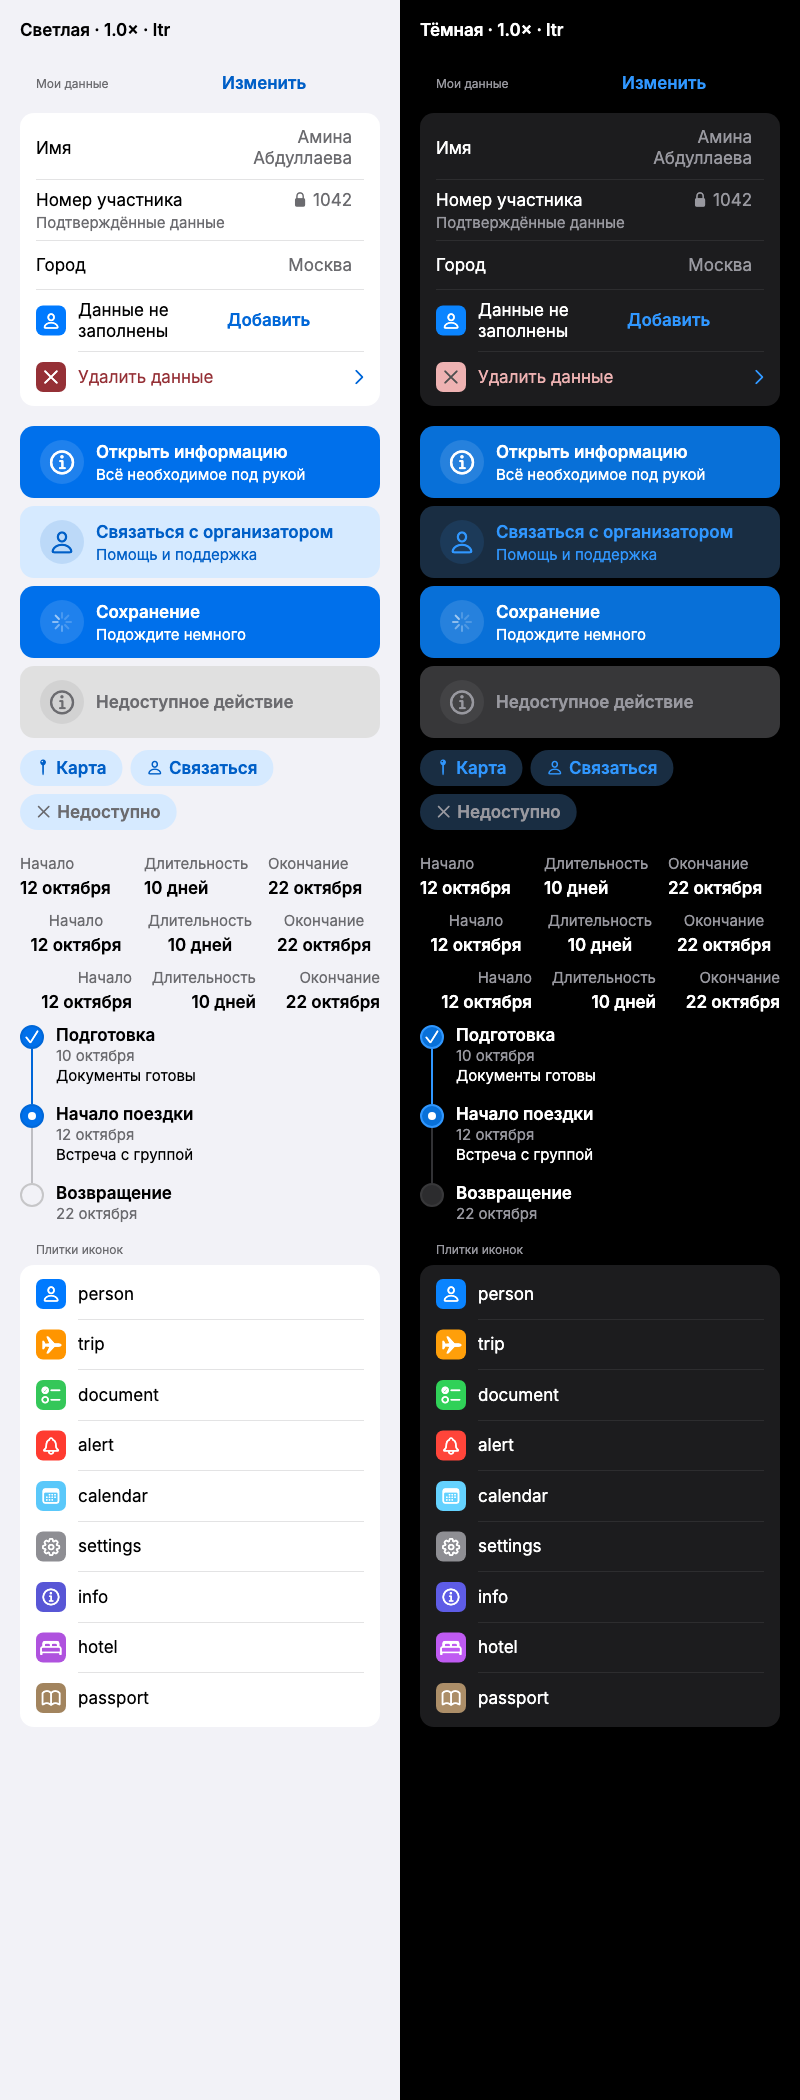
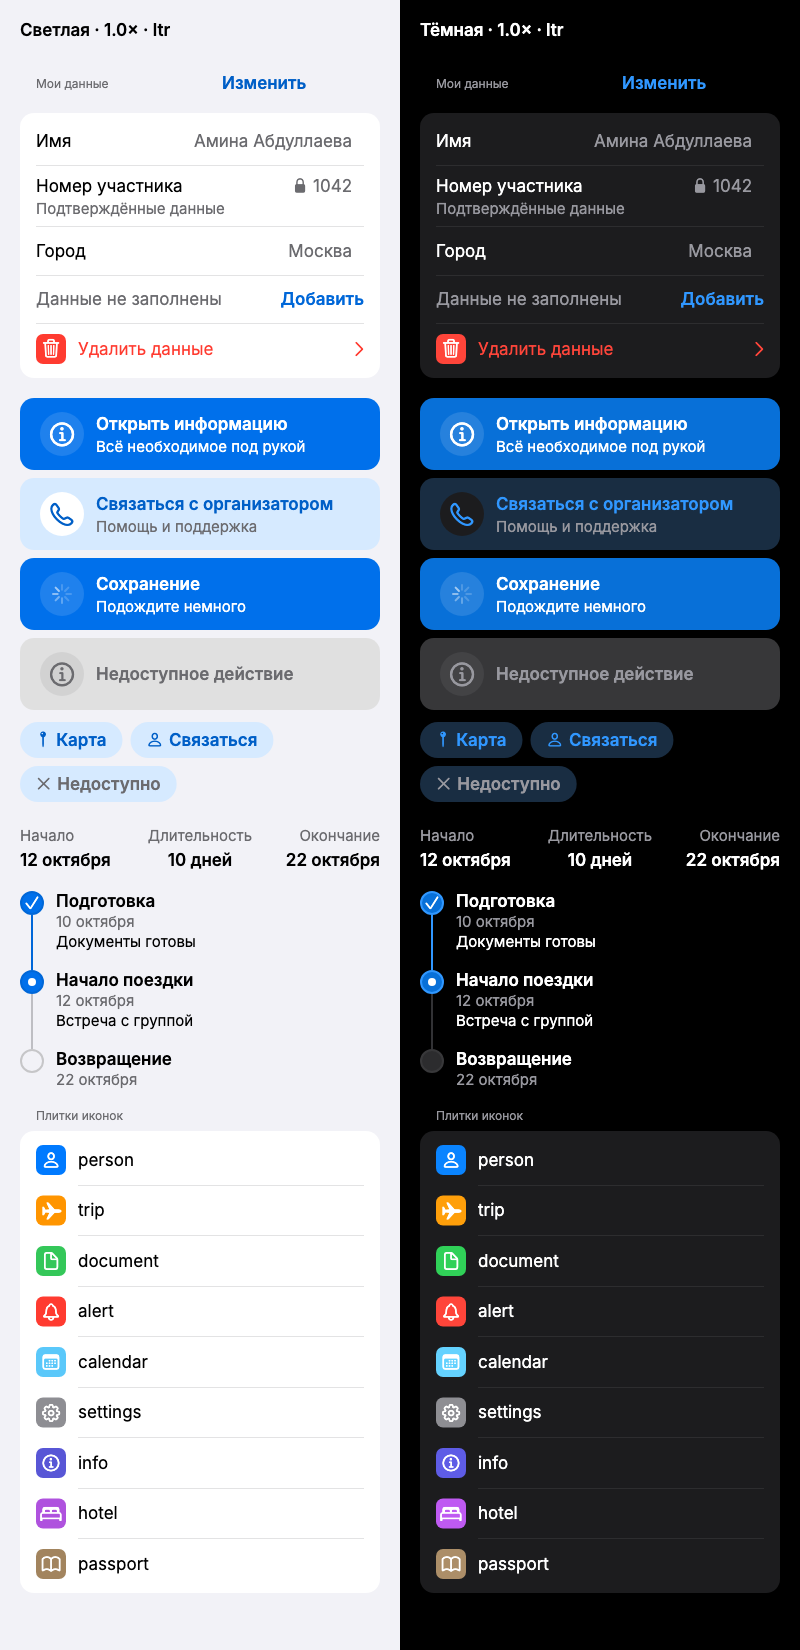
fix: align profile actions and match reference colors

diff --git a/packages/academy_ui/lib/src/widgets/table/academy_row.dart b/packages/academy_ui/lib/src/widgets/table/academy_row.dart
@@ -73,11 +73,18 @@ class AcademyRow extends StatelessWidget {
   @override
   Widget build(BuildContext context) {
     final theme = AcademyTheme.of(context);
+    final toneColor = tone == AcademyTone.error
+        ? AcademyRowIcons.alert.colorOf(context)
+        : tone == null
+        ? null
+        : theme.colorScheme.toneForeground(tone!);
     final tileColor = tone != null
-        ? theme.colorScheme.toneForeground(tone!)
+        ? toneColor
         : iconBackgroundColor ?? iconColorRole?.colorOf(context);
     final titleStyle = theme.textTheme.bodyLarge.copyWith(
-      color: tone == null ? null : theme.colorScheme.toneForeground(tone!),
+      color:
+          toneColor ??
+          (actionLabel != null ? theme.colorScheme.onSurfaceVariant : null),
     );
     final content = Padding(
       padding: EdgeInsetsDirectional.fromSTEB(
@@ -109,7 +116,7 @@ class AcademyRow extends StatelessWidget {
                 child: AcademySfIcon(
                   icon!,
                   size: 17,
-                  color: tone == null
+                  color: tone == null || tone == AcademyTone.error
                       ? theme.colorScheme.iconOnColoredSurface
                       : AcademyContrast.foreground(
                           theme.colorScheme.iconOnColoredSurface,
@@ -143,29 +150,18 @@ class AcademyRow extends StatelessWidget {
                                   color: theme.colorScheme.accentForeground,
                                 ),
                               );
-                              if (MediaQuery.textScalerOf(context).scale(1) >=
-                                      AcademyTokens.adaptiveTextScale ||
-                                  constraints.maxWidth <
-                                      AcademyTokens.metadataHorizontalWidth) {
-                                return Column(
-                                  crossAxisAlignment:
-                                      CrossAxisAlignment.stretch,
-                                  children: [
-                                    titleText,
-                                    const SizedBox(
-                                      height: AcademyTokens.labelGap,
-                                    ),
-                                    actionText,
-                                  ],
-                                );
-                              }
                               return Row(
                                 children: [
                                   Expanded(child: titleText),
                                   const SizedBox(
                                     width: AcademyTokens.inlineGap,
                                   ),
-                                  Flexible(child: actionText),
+                                  ConstrainedBox(
+                                    constraints: BoxConstraints(
+                                      maxWidth: constraints.maxWidth * .6,
+                                    ),
+                                    child: actionText,
+                                  ),
                                 ],
                               );
                             },
@@ -204,7 +200,7 @@ class AcademyRow extends StatelessWidget {
             const SizedBox(width: AcademyTokens.inlineGap),
             trailing!,
           ] else if (onPressed != null && actionLabel == null)
-            const AcademySfIcon(AcademySymbols.forward, size: 16),
+            AcademySfIcon(AcademySymbols.forward, size: 16, color: toneColor),
         ],
       ),
     );

diff --git a/apps/academy_ui_catalog/lib/profile_components_catalog.dart b/apps/academy_ui_catalog/lib/profile_components_catalog.dart
@@ -81,12 +81,10 @@ class ProfileComponentExamples extends StatelessWidget {
               title: 'Данные не заполнены',
               action: 'Добавить',
               onPressed: action,
-              icon: AcademySymbols.person,
-              iconColorRole: AcademyRowIcons.person,
             ),
             AcademyRow(
               title: 'Удалить данные',
-              icon: AcademySymbols.close,
+              icon: AcademySymbols.trash,
               tone: AcademyTone.error,
               onPressed: action,
             ),
@@ -103,7 +101,7 @@ class ProfileComponentExamples extends StatelessWidget {
         AcademyActionButton(
           title: 'Связаться с организатором',
           subtitle: 'Помощь и поддержка',
-          icon: AcademySymbols.person,
+          icon: AcademySymbols.phone,
           style: AcademyButtonStyle.tinted,
           onPressed: action,
         ),
@@ -140,18 +138,26 @@ class ProfileComponentExamples extends StatelessWidget {
           ],
         ),
         const SizedBox(height: AcademyTokens.gutter),
-        for (final alignment in AcademyStatAlignment.values)
-          Padding(
-            padding: const EdgeInsets.only(bottom: AcademyTokens.inlineGap),
-            child: AcademyStatGroup(
-              alignment: alignment,
-              stats: const [
-                AcademyStat(label: 'Начало', value: '12 октября'),
-                AcademyStat(label: 'Длительность', value: '10 дней'),
-                AcademyStat(label: 'Окончание', value: '22 октября'),
-              ],
+        AcademyStatGroup(
+          stats: const [
+            AcademyStat(
+              label: 'Начало',
+              value: '12 октября',
+              alignment: AcademyStatAlignment.start,
             ),
-          ),
+            AcademyStat(
+              label: 'Длительность',
+              value: '10 дней',
+              alignment: AcademyStatAlignment.center,
+            ),
+            AcademyStat(
+              label: 'Окончание',
+              value: '22 октября',
+              alignment: AcademyStatAlignment.end,
+            ),
+          ],
+        ),
+        const SizedBox(height: AcademyTokens.gutter),
         const AcademyTimeline(
           items: [
             AcademyTimelineItem(
@@ -180,7 +186,7 @@ class ProfileComponentExamples extends StatelessWidget {
                 icon: switch (role) {
                   AcademyRowIcons.person => AcademySymbols.person,
                   AcademyRowIcons.trip => AcademySymbols.airplane,
-                  AcademyRowIcons.document => AcademySymbols.checklist,
+                  AcademyRowIcons.document => AcademySymbols.document,
                   AcademyRowIcons.alert => AcademySymbols.bell,
                   AcademyRowIcons.calendar => AcademySymbols.calendar,
                   AcademyRowIcons.settings => AcademySymbols.gear,

diff --git a/packages/academy_ui/lib/src/widgets/stat/academy_stat_group.dart b/packages/academy_ui/lib/src/widgets/stat/academy_stat_group.dart
@@ -4,8 +4,9 @@ import '../../theme/academy_theme.dart';
 
 @immutable
 class AcademyStat {
-  const AcademyStat({required this.label, required this.value});
+  const AcademyStat({required this.label, required this.value, this.alignment});
   final String label, value;
+  final AcademyStatAlignment? alignment;
 }
 
 enum AcademyStatAlignment { start, center, end }
@@ -23,12 +24,13 @@ class AcademyStatGroup extends StatelessWidget {
   @override
   Widget build(BuildContext context) {
     final theme = AcademyTheme.of(context);
-    final textAlign = switch (alignment) {
-      AcademyStatAlignment.start => TextAlign.start,
-      AcademyStatAlignment.center => TextAlign.center,
-      AcademyStatAlignment.end => TextAlign.end,
-    };
-    Widget cell(AcademyStat stat) => Semantics(
+    TextAlign textAlign(AcademyStat stat) =>
+        switch (stat.alignment ?? alignment) {
+          AcademyStatAlignment.start => TextAlign.start,
+          AcademyStatAlignment.center => TextAlign.center,
+          AcademyStatAlignment.end => TextAlign.end,
+        };
+    Widget cell(AcademyStat stat, {bool vertical = false}) => Semantics(
       container: true,
       excludeSemantics: true,
       label: stat.label,
@@ -39,7 +41,7 @@ class AcademyStatGroup extends StatelessWidget {
         children: [
           Text(
             stat.label,
-            textAlign: textAlign,
+            textAlign: vertical ? TextAlign.start : textAlign(stat),
             style: theme.textTheme.bodyMedium.copyWith(
               color: theme.colorScheme.onSurfaceVariant,
             ),
@@ -47,7 +49,7 @@ class AcademyStatGroup extends StatelessWidget {
           const SizedBox(height: AcademyTokens.labelGap),
           Text(
             stat.value,
-            textAlign: textAlign,
+            textAlign: vertical ? TextAlign.start : textAlign(stat),
             style: theme.textTheme.labelLarge,
           ),
         ],
@@ -65,7 +67,7 @@ class AcademyStatGroup extends StatelessWidget {
             children: [
               for (var i = 0; i < stats.length; i++) ...[
                 if (i > 0) const SizedBox(height: AcademyTokens.inlineGap),
-                cell(stats[i]),
+                cell(stats[i], vertical: true),
               ],
             ],
           );

diff --git a/packages/academy_ui/test/profile_components_test.dart b/packages/academy_ui/test/profile_components_test.dart
@@ -40,7 +40,9 @@ List<SemanticsNode> nodes(WidgetTester tester) {
     });
   }
 
-  visit(tester.binding.renderViews.single.owner!.semanticsOwner!.rootSemanticsNode!);
+  visit(
+    tester.binding.renderViews.single.owner!.semanticsOwner!.rootSemanticsNode!,
+  );
   return result;
 }
 
@@ -245,6 +247,43 @@ void main() {
     expect(count, 4);
   });
 
+  for (final scale in [1.0, 2.0]) {
+    for (final direction in TextDirection.values) {
+      testWidgets('action stays at directional edge $scale $direction', (
+        tester,
+      ) async {
+        tester.view.physicalSize = const Size(320, 844);
+        tester.view.devicePixelRatio = 1;
+        addTearDown(tester.view.reset);
+        await tester.pumpWidget(
+          host(
+            AcademyTableBody(
+              rows: [
+                AcademyRow.action(
+                  title: 'Данные не заполнены',
+                  action: 'Добавить',
+                  onPressed: () {},
+                ),
+              ],
+            ),
+            scale: scale,
+            direction: direction,
+          ),
+        );
+        final action = tester.getRect(find.text('Добавить'));
+        final label = tester.getRect(find.text('Данные не заполнены'));
+        if (direction == TextDirection.ltr) {
+          expect(action.right, closeTo(304, .01));
+          expect(action.left, greaterThan(label.right));
+        } else {
+          expect(action.left, closeTo(16, .01));
+          expect(action.right, lessThan(label.left));
+        }
+        expect(tester.takeException(), isNull);
+      });
+    }
+  }
+
   testWidgets('pill fill 36 with 44 target and tappable outer margin', (
     tester,
   ) async {
@@ -321,8 +360,9 @@ void main() {
           brightness: brightness,
         ),
       );
-      final expected = academyTheme(brightness).colorScheme
-          .toneForeground(AcademyTone.error);
+      final expected = brightness == Brightness.dark
+          ? CupertinoColors.systemRed.darkColor
+          : CupertinoColors.systemRed.color;
       expect(tester.widget<Text>(find.text('Удалить')).style!.color, expected);
       final fill = tester.widget<Container>(
         find

diff --git a/apps/academy_ui_catalog/tool/capture_profile_components_test.dart b/apps/academy_ui_catalog/tool/capture_profile_components_test.dart
@@ -61,8 +61,26 @@ void main() {
     tester.view.devicePixelRatio = 1;
     addTearDown(tester.view.reset);
     await fonts();
-    for (final large in [false, true]) {
-      tester.view.physicalSize = Size(800, large ? 3600 : 2100);
+    for (final mode in [0, 1, 2]) {
+      final large = mode == 1;
+      final detail = mode == 2;
+      tester.view.physicalSize = Size(
+        800,
+        detail
+            ? 620
+            : large
+            ? 3000
+            : 1650,
+      );
+      Widget preview(
+        Brightness brightness, {
+        double scale = 1,
+        TextDirection direction = TextDirection.ltr,
+      }) {
+        final content = panel(brightness, scale: scale, direction: direction);
+        return detail ? SingleChildScrollView(child: content) : content;
+      }
+
       final key = GlobalKey();
       await tester.pumpWidget(
         AcademyApp(
@@ -71,9 +89,11 @@ void main() {
             child: Row(
               crossAxisAlignment: CrossAxisAlignment.stretch,
               children: [
-                Expanded(child: panel(Brightness.light, scale: large ? 2 : 1)),
                 Expanded(
-                  child: panel(
+                  child: preview(Brightness.light, scale: large ? 2 : 1),
+                ),
+                Expanded(
+                  child: preview(
                     Brightness.dark,
                     scale: large ? 2 : 1,
                     direction: large ? TextDirection.rtl : TextDirection.ltr,
@@ -92,7 +112,11 @@ void main() {
         final image = await boundary.toImage(pixelRatio: 1);
         final bytes = await image.toByteData(format: ui.ImageByteFormat.png);
         final file = File(
-          '../../docs/previews/profile-components${large ? '-large-rtl' : ''}.png',
+          '../../docs/previews/profile-components${large
+              ? '-large-rtl'
+              : detail
+              ? '-detail'
+              : ''}.png',
         );
         await file.parent.create(recursive: true);
         await file.writeAsBytes(bytes!.buffer.asUint8List());

diff --git a/packages/academy_ui/lib/src/widgets/button/academy_action_button.dart b/packages/academy_ui/lib/src/widgets/button/academy_action_button.dart
@@ -68,7 +68,9 @@ class AcademyActionButton extends StatelessWidget {
                     height: AcademyTokens.target,
                     decoration: BoxDecoration(
                       shape: BoxShape.circle,
-                      color: foreground.withValues(alpha: .12),
+                      color: tinted && !disabled
+                          ? p.surface
+                          : foreground.withValues(alpha: .12),
                     ),
                     alignment: Alignment.center,
                     child: pending
@@ -100,7 +102,9 @@ class AcademyActionButton extends StatelessWidget {
                             child: Text(
                               subtitle!,
                               style: theme.textTheme.bodyMedium.copyWith(
-                                color: foreground,
+                                color: tinted && !disabled
+                                    ? p.onSurfaceVariant
+                                    : foreground,
                               ),
                             ),
                           ),

diff --git a/packages/academy_ui/lib/src/widgets/table/academy_value_row.dart b/packages/academy_ui/lib/src/widgets/table/academy_value_row.dart
@@ -76,7 +76,12 @@ class AcademyValueRow extends StatelessWidget {
             }
             return Row(
               children: [
-                Expanded(child: labelText),
+                ConstrainedBox(
+                  constraints: BoxConstraints(
+                    maxWidth: constraints.maxWidth * .5,
+                  ),
+                  child: labelText,
+                ),
                 const SizedBox(width: AcademyTokens.inlineGap),
                 Expanded(child: valueContent),
               ],

diff --git a/packages/academy_ui/lib/src/widgets/icon/academy_sf_image.dart b/packages/academy_ui/lib/src/widgets/icon/academy_sf_image.dart
@@ -80,6 +80,7 @@ class AcademySfIcon extends StatelessWidget {
 abstract final class AcademySymbols {
   static const dragHandle = sf.SFIcons.sf_line_3_horizontal;
   static const heart = sf.SFIcons.sf_heart;
+  static const phone = sf.SFIcons.sf_phone;
   static const lock = sf.SFIcons.sf_lock_fill;
   static const person = sf.SFIcons.sf_person;
   static const circuit = sf.SFIcons.sf_arrow_counterclockwise;

diff --git a/packages/academy_ui/README.md b/packages/academy_ui/README.md
@@ -648,13 +648,13 @@ colorsBuilder: (brightness, accent) => AcademyPalette(brightness, accent).copyWi
 | `AcademyPillButton(label:, icon:, onPressed:)` | Тонированная таблетка: заливка 36 pt, зона нажатия минимум 44×44. При крупном тексте растёт. `tinted: false` — тихое текстовое действие. |
 | `AcademyTableHeader.action(title:, action:, onPressed:, icon:, uppercase:)` | Заголовок с текстовым действием справа. По умолчанию сохраняет регистр; при крупном тексте действие занимает следующую строку и выравнивается к концу. |
 | `AcademyTimeline(items:)` | Этапы `AcademyTimelineItem(title:, date:, subtitle:, state:)`, линия между точками; состояния `completed/current/upcoming`, порядок и состояние объявляются доступностью. Даты передаются готовыми строками. |
-| `AcademyStatGroup(stats:, alignment:)` | 2–3 элемента `AcademyStat(label:, value:)`; `AcademyStatAlignment.start/center/end`. При узкой ширине или шрифте от 1.5× — вертикальный список. |
+| `AcademyStatGroup(stats:, alignment:)` | 2–3 элемента `AcademyStat(label:, value:)`; `AcademyStatAlignment.start/center/end`, отдельно для элемента через `AcademyStat.alignment`. При узкой ширине или шрифте от 1.5× — вертикальный список. |
[1 lines of base64/hex data omitted]
 
 Цвета плиток сверены с макетом профиля Yalla: blue, orange, green, red, teal,
 grey, indigo, purple, brown. `colorOf(context)` выбирает светлое/тёмное системное
 значение по AcademyTheme. Явный `iconBackgroundColor` имеет приоритет над ролью,
-а `tone` — над обоими. Тоны, кнопки и текст используют текущую клиентскую палитру.
+а `tone` — над обоими. Деструктивная строка использует красную роль alert. Кнопки и обычный текст используют текущую клиентскую палитру.
 Метрики находятся в AcademyTokens, отступы и радиусы — в текущей теме.
 Кнопки используют общий AcademyPressEffect, учитывают Reduce Motion и имеют
 один именованный action-узел; loading объявляется live region. Лента не анимируется.

diff --git a/docs/tasks/2026-10-03-yalla-profile-components/task.md b/docs/tasks/2026-10-03-yalla-profile-components/task.md
@@ -63,6 +63,8 @@ Ownership: компоненты не владеют данными и состо
 - 2026-10-03: добавлена страница каталога с четырьмя вариантами, README и воспроизводимые снимки `docs/previews/profile-components*.png`. На визуальной проверке исправлены перенос действия заголовка при 2× и контраст иконки деструктивной строки в тёмной теме.
 - 2026-10-03: flutter analyze --no-pub в пакете и каталоге, полные flutter test --no-pub (191 + 26), веб-сборка и capture-проверка прошли. Новые тесты: 12 в пакете и 1 в каталоге; ширина 320, обе темы, оба направления, 1×/2×, геометрия, semantics, hit target и отключение callbacks. После визуальных правок повторены относящиеся к ним тесты и веб-сборка.
 
+- 2026-10-03: по замечанию владельца исправлены оформление и композиция: действие AcademyRow.action закреплено у конца строки при 1×/2× и RTL; в демонстрации пустой строки убрана лишняя иконка. Красный тон строки использует роль alert вместо бордового/розового статуса, стрелка повторяет тон. Вторичная ActionButton получила нейтральный круг и приглушённую подпись по макету. ValueRow не делит ширину поровну без необходимости; статистика показана одним блоком с выравниванием отдельных колонок. Добавлены 4 регрессионные проверки координат действия.
+
 ## Documentation status
 
 README пакета и каталога обновлены; реализация и проверки описаны выше.
